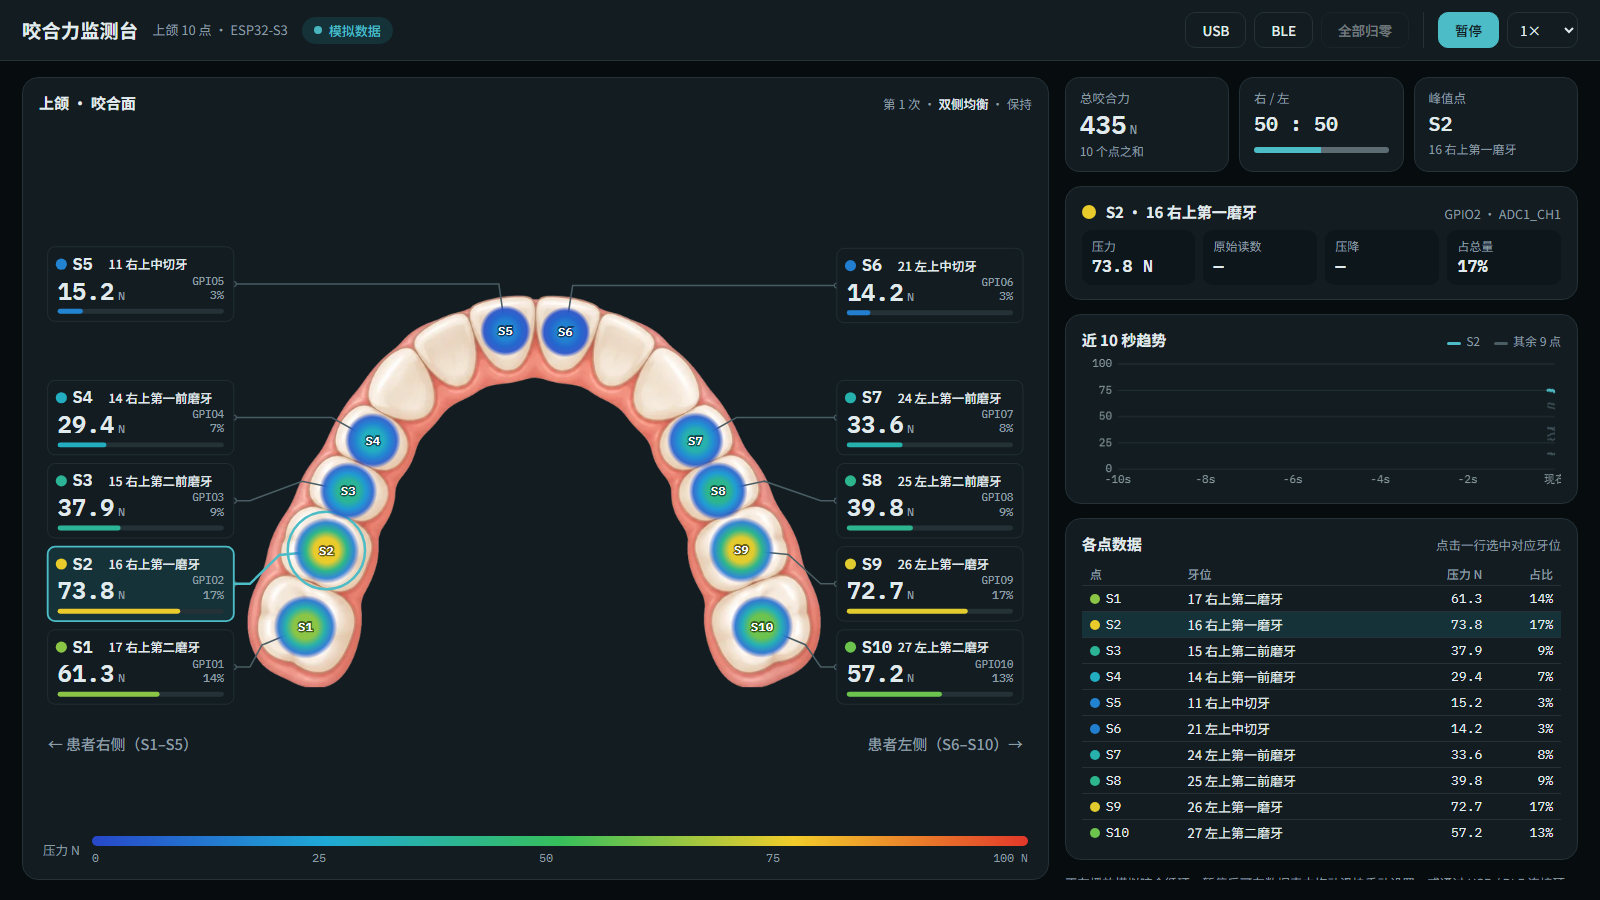
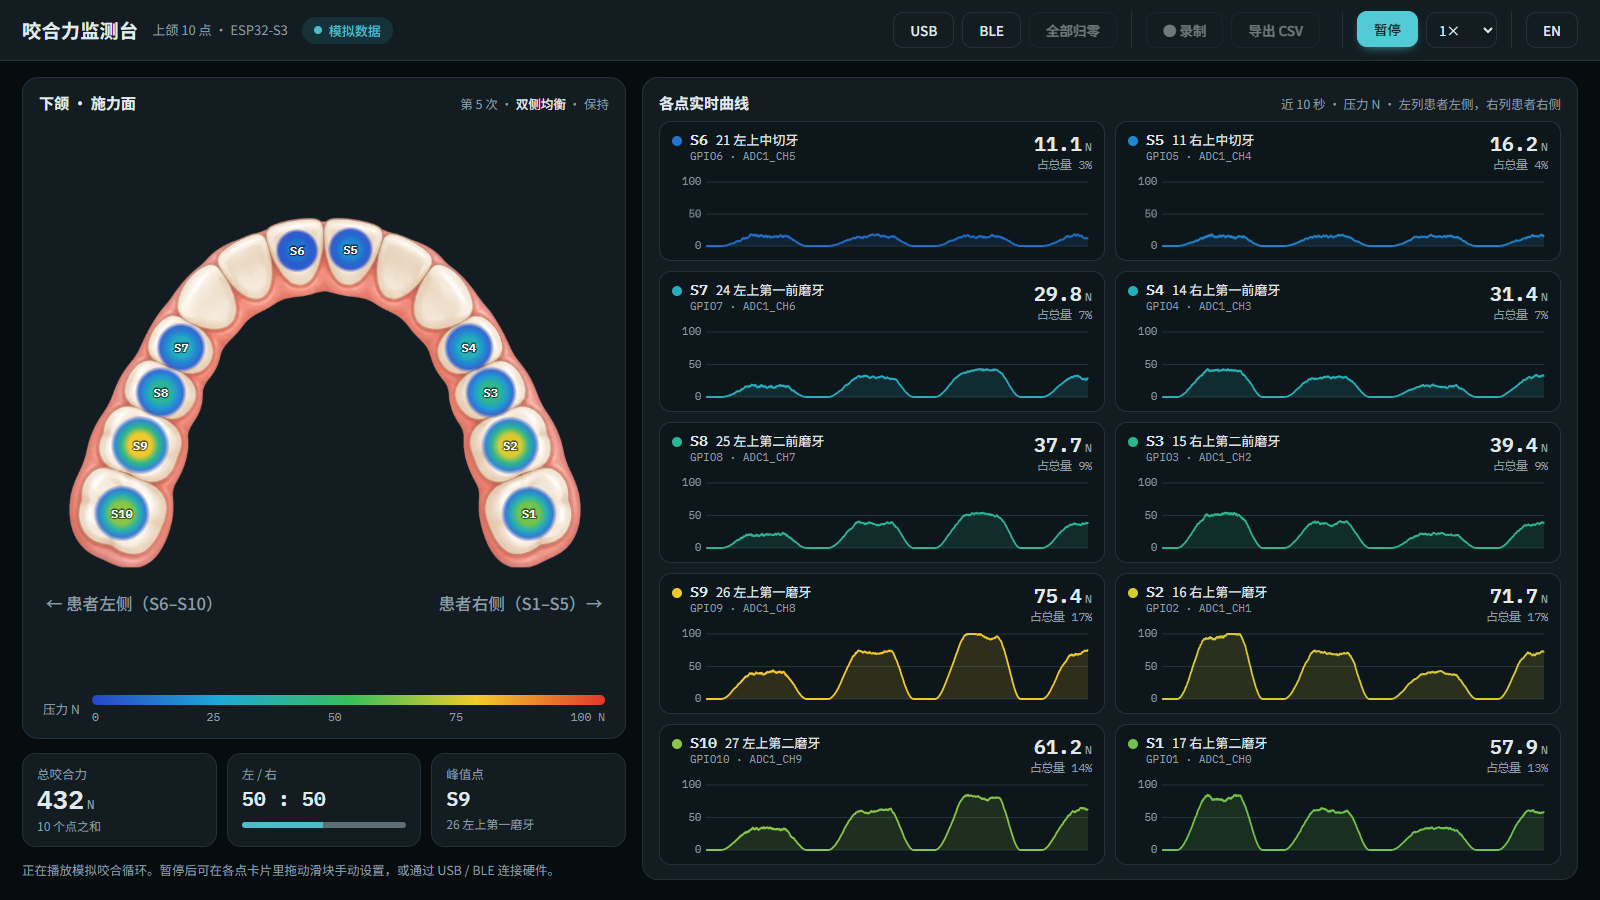
update readme

diff --git a/README.md b/README.md
@@ -2,7 +2,7 @@
 
 牙模相关的传感实验仓库，目前包含两部分：
 
-1. **咬合力监测**：在上颌牙模的 10 个牙位上布置压阻传感器，由 ESP32-S3 采集各点分压，通过 USB 串口或 BLE 实时传到网页，以热力图显示。
+1. **咬合力监测**：在上颌牙模的 10 个牙位上布置压阻传感器，由 ESP32-S3 采集各点分压，通过 USB 串口或 BLE 实时传到网页。网页用热力图和每点一张实时曲线显示，并可录制、导出 CSV。
 2. **磁场角度测试数据分析**：3 个磁传感器在不同磁铁角度下的 Bx / By / Bz 采样数据，以及计算均值并作图的分析脚本。
 
 ![全屏监测面板](docs/images/dashboard.png)
@@ -51,7 +51,9 @@
                      GND
 ```
 
-按压时传感器电阻变小，读出点电压下降。编号沿牙弓**顺时针**递增：S1 是右上第二磨牙，经过前牙到 S10 左上第二磨牙。**Sn 接 GPIOn**，只用 ADC1 的通道，因为 ADC2 与无线电共用。
+按压时传感器电阻变小，读出点电压下降。编号从 S1（右上第二磨牙）经过前牙到 S10（左上第二磨牙）。**Sn 接 GPIOn**，只用 ADC1 的通道，因为 ADC2 与无线电共用。
+
+> 下面的接线图按面对患者的方向画，患者右侧在图左，编号是顺时针。网页里的牙弓做了左右镜像，患者右侧显示在屏幕右侧，所以屏幕上看编号是逆时针。两者对应的牙位相同。
 
 ![接线引脚图](docs/wiring_pinout.svg)
 
@@ -103,22 +105,28 @@
 
 | 全屏面板 `dashboard_zh.html` | 手机单屏 `onescreen_zh.html` |
 |---|---|
-| 左栏是牙弓热力图和摘要；右栏是 10 个点各自的近 10 秒实时曲线，左列为患者左侧（S6–S10），右列为患者右侧（S5–S1），上下顺序和牙齿的前后位置一致。顶栏可录制并导出 CSV | 手机竖屏布局，热力图加两列传感器列表，列表的上下顺序和牙齿的前后位置一致 |
+| 左栏是牙弓热力图和摘要（总压降、左 / 右比例、峰值点）；右栏是 10 个点各自的近 10 秒实时曲线，左列为患者左侧（S6–S10），右列为患者右侧（S5–S1），上下顺序和牙齿的前后位置一致。顶栏可录制并导出 CSV | 手机竖屏布局，热力图加两列传感器列表（左列患者左侧，右列患者右侧），列表的上下顺序和牙齿的前后位置一致 |
 | ![全屏面板](docs/images/dashboard.png) | <img src="docs/images/onescreen.png" alt="手机单屏" width="320"> |
+
+两个页面的牙弓图都做了左右镜像：患者右侧（S1–S5）在屏幕右侧，患者左侧（S6–S10）在屏幕左侧。
 
 使用流程：
 
-1. 点 **USB**（选择 COM 口）或 **BLE**（选择 `BiteForce`）连接；右上角会显示 `实时 · USB · 200 Hz`，这是实测的帧率。
-2. 传感器不受力时点 **调零**。调零基准保存在浏览器里，下次打开仍然有效。
-3. 全屏面板上点 **● 录制** 开始记录，再点 **■ 停止**，然后点 **导出 CSV** 下载文件（`bite_force_日期_时间.csv`）。录制会保存收到的每一帧（USB 下为 200 Hz），不受屏幕刷新率影响。断开连接时录制自动停止，已录数据仍可导出；单次最长 30 分钟。
+1. 点 **USB**（选择 COM 口）或 **BLE**（选择 `BiteForce`）连接。标题旁的状态标签会显示 `实时 · USB · 200 Hz`，这是实测的帧率。收到第一帧数据之前，各点的电压显示为「—」。
+2. 等电压显示出来后，在所有传感器都不受力时点 **调零**（英文界面为 **Tare**，作用见下文）。调零基准保存在浏览器里，下次打开仍然有效。
+3. 全屏面板上点 **● 录制** 开始记录，再点 **■ 停止**，然后点 **导出 CSV**，按钮会短暂显示「✓ 已导出」。
+   - 文件由浏览器保存到默认下载文件夹（Windows 上一般是 `C:\Users\<用户名>\Downloads`），文件名为 `bite_force_日期_时间.csv`，时间取点「录制」的那一刻。想换保存位置，在浏览器的下载设置里修改，或者打开"下载前询问保存位置"。
+   - 录制会保存收到的每一帧（USB 下为 200 Hz），不受屏幕刷新率影响。
+   - 断开连接时录制自动停止，已录数据仍可导出；单次最长 30 分钟。
 4. 打开页面时不播放模拟数据，各点为 0。未连接硬件时，可以点 **播放** 演示模拟咬合循环，或在各点卡片里拖动滑块手动设置数值，方便单独调试界面。
 5. 全屏面板右上角的 **EN / 中文** 按钮用于切换中英文，选择会被记住；也可以在链接后加 `?lang=en` 或 `?lang=zh` 直接指定语言。英文界面的牙位缩写为 UR（右上）、UL（左上）。
 
 **显示的数值**：页面不使用传感器模型，直接显示分压读数。
 
 - 每个点显示读出点电压（V）、原始读数（mV）和压降，并画出近 10 秒的电压曲线。10 张曲线图共用一个纵轴，范围随窗口内的电压自动缩放（至少 0.2 V），因此几百毫伏的变化也看得清；
-- 热力图、总量、左右比例和峰值点都按**压降百分比**计算：`(基准电压 − 当前电压) / 3.3 V × 100%`。它与电压成线性关系，按压越用力数值越大；
-- 颜色按**色标满量程**映射：连接硬件后，原来的播放速度下拉框换成满量程选择（5 / 10 / 20 / 50 / 100 %，默认 20 %），压降达到该值即显示为最红。轻压通常只有百分之几到十几的压降，满量程设成 100 % 时颜色几乎不变；
+- 热力图、总量、左右比例和峰值点都按**压降百分比**计算：`(基准电压 − 当前电压) / 3.3 V × 100%`。分母固定为 3.3 V，1 % 对应 33 mV。它与电压成线性关系，按压越用力数值越大；
+- **基准电压**：点过「调零」后，是调零时各点各自的电压；没调零时为 3.3 V。ADC 空载最高只读到约 3.139 V，所以没调零时每个点不受力也会有约 4.9 % 的压降，建议连接后先调零。调零只影响压降和颜色，显示的电压、原始 mV 和 CSV 里的 mV 列都是真实读数。收到数据之前点调零无效；如果浏览器里存着全 0 的无效基准，打开页面时会自动丢弃；
+- 颜色按**色标满量程**映射：连接硬件后，原来的播放速度下拉框换成满量程选择（5 / 10 / 20 / 50 / 100 %，默认 20 %），压降达到该值即显示为最红。轻压通常只有百分之几到十几的压降，满量程设成 100 % 时颜色几乎不变。可以先按一下看压降最多到多少，再选略高于它的一档；
 - 显示时做了 40 ms 时间常数的平滑，平滑程度不随帧率变化。
 
 **CSV 格式**：第一行是表头，之后每帧一行。
@@ -134,6 +142,9 @@
 - **所有通道一直是 3139 mV，按压也不变**：3139 mV 是 ADC 的满量程，说明读出点被拉到了 3.1 V 以上。请检查传感器的另一端是否真的接到了 GND，或者传感器按压时的电阻是否远大于上拉电阻。可以用杜邦线把某个 GPIO 直接接 GND，网页上对应的点应该变成 0 V。
 - **上传失败 / 网页连不上串口**：同一个 COM 口同一时间只能被一个程序占用。上传前先在网页上点「断开」，或者关掉串口监视器。
 - **BLE 帧率低于 200 Hz**：受 Windows 蓝牙连接间隔的限制，正常现象。需要满帧率时用 USB。
+- **按压时颜色几乎不变**：先在不受力时调零，再把色标满量程调小（例如 10 % 或 5 %）。如果降到 0 V 压降仍显示 0 %，说明调零时传感器正在受力，不受力时重新调零即可。
+- **连接后一直显示「—」或 `0 Hz · 等待数据`**：板子没有在发送数据。用原生 USB 口时确认「USB CDC On Boot」为 Enabled；也可以按一下板子上的 RST 键，再重新连接。
+- **改了网页文件但界面没变**：浏览器还在用旧页面，按 Ctrl+F5 强制刷新。
 
 ### 尚未实现
 
